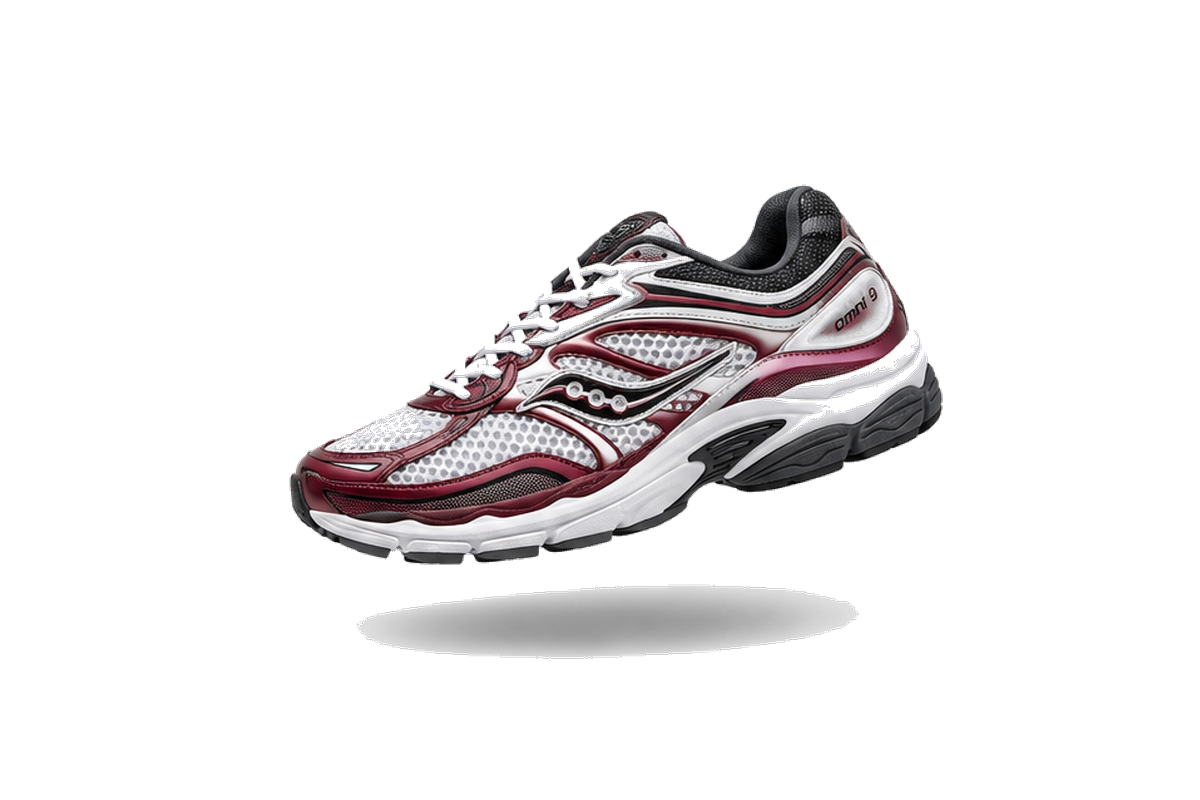
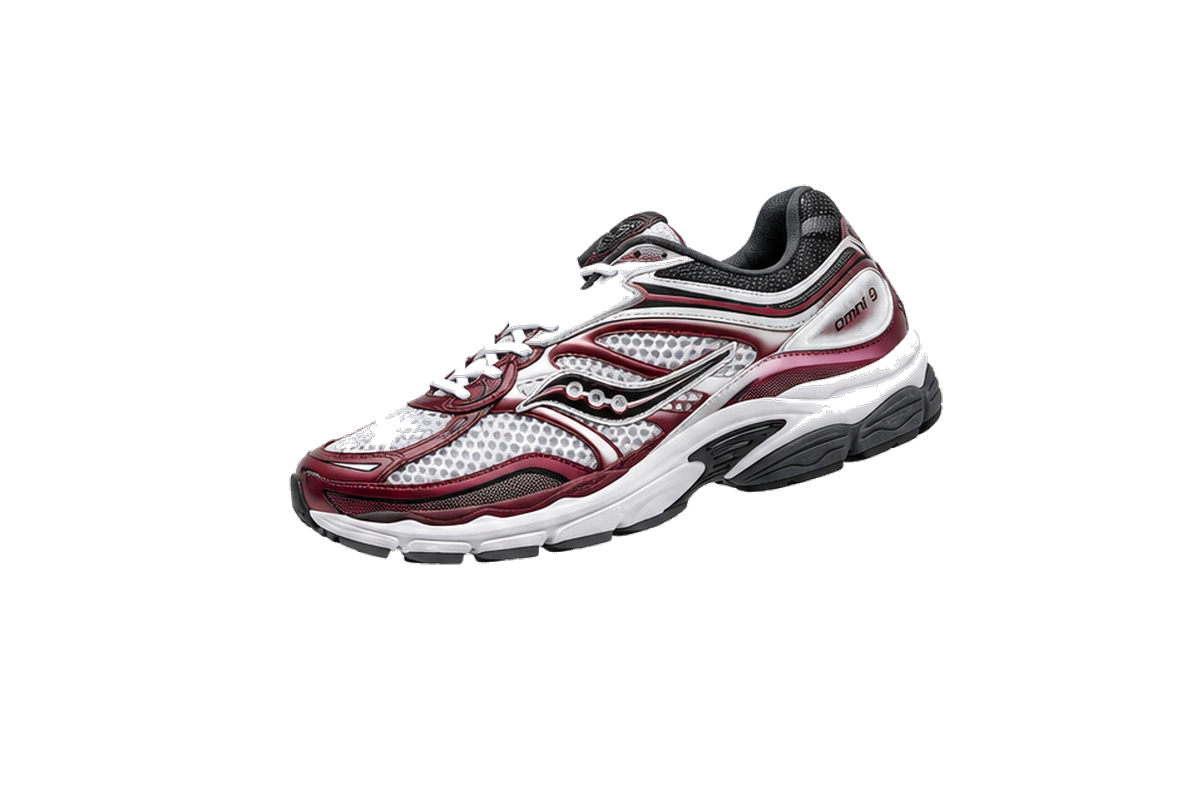
Ombre corrigée — les Saucony utilisent maintenant exactement le même système d'ombre que l'ASICS GEL-NYC rose.
**Ce qui a été fait**
- Les Saucony avaient une ombre figée dans leurs images (d'où le rendu « plaqué » et la double ombre) : je l'ai retirée des 5 PNG par analyse de transparence — **les chaussures elles-mêmes sont strictement intactes** (vérifié visuellement : mesh, lacets, logos préservés)
- `data/products.js` : `shadowTint` des 5 coloris Saucony passé à `rgba(10,10,10,0.26)` — la valeur de l'ASICS — activant l'**ombre ovale détachée animée** (réagit à la lévitation et à l'inclinaison, stable entre les coloris)

**Fichiers modifiés** : `assets/saucony-*.png` (retrait de l'ombre incorporée uniquement), `data/products.js`

**Vérifications** : noir ✓, blanc ✓ (un seul ovale doux, identique à la référence ASICS), changement de coloris stable ✓, mobile ✓ — taille, position, lévitation et logo Z en arrière-plan inchangés.

Emergent-Commit-Key: 9763d1eafc27c8bd7eeb8262312ab82ce4631e046eaf78239874ecf65ee72ad9

Changed region(s): [[0.2775, 0.7188, 0.7092, 0.8438], [0.4317, 0.3438, 0.5242, 0.4062], [0.3083, 0.5312, 0.3392, 0.5625]]

diff --git a/frontend/src/data/products.js b/frontend/src/data/products.js
@@ -216,9 +216,9 @@ export const CATALOG = [
     priceRange: { min: null, max: null }, // set when Shopify connects
     options: [{ name: "Color", values: ["Noir", "Blanc", "Gris / Argent", "Blanc / Bleu", "Blanc / Bordeaux"] }],
     // Grand logo ZEV SHOP (Z) en filigrane derrière la chaussure, comme les
-    // TN — sa couleur = zTint, adaptée à chaque coloris.
-    // Ombres déjà intégrées aux visuels → shadowTint transparent ; images
-    // normalisées sur le même canevas 1200×800 que la TN noire → scale 1.0.
+    // TN — sa couleur = zTint, adaptée à chaque coloris. Ombre ovale animée
+    // détachée (même système que l'ASICS) ; images normalisées sur le même
+    // canevas 1200×800 que la TN noire → scale 1.0.
     variants: [
       {
         id: "saucony-noir",
@@ -233,7 +233,7 @@ export const CATALOG = [
         swatchFlat: "#141414",
         glow: "rgba(0, 0, 0, 0)",
         spotlight: "rgba(0, 0, 0, 0.05)",
-        shadowTint: "rgba(0, 0, 0, 0)",
+        shadowTint: "rgba(10, 10, 10, 0.26)",
         zTint: "rgba(52, 56, 61, 0.16)",
         scale: 1.0,
         shiftY: "0%",
@@ -252,7 +252,7 @@ export const CATALOG = [
         swatchFlat: "#F4F4F4",
         glow: "rgba(0, 0, 0, 0)",
         spotlight: "rgba(0, 0, 0, 0.04)",
-        shadowTint: "rgba(0, 0, 0, 0)",
+        shadowTint: "rgba(10, 10, 10, 0.26)",
         zTint: "rgba(126, 132, 140, 0.22)",
         scale: 1.0,
         shiftY: "0%",
@@ -271,7 +271,7 @@ export const CATALOG = [
         swatchFlat: "linear-gradient(135deg, #ECECEC, #9AA0A6)",
         glow: "rgba(0, 0, 0, 0)",
         spotlight: "rgba(0, 0, 0, 0.05)",
-        shadowTint: "rgba(0, 0, 0, 0)",
+        shadowTint: "rgba(10, 10, 10, 0.26)",
         zTint: "rgba(128, 134, 142, 0.20)",
         scale: 1.0,
         shiftY: "0%",
@@ -290,7 +290,7 @@ export const CATALOG = [
         swatchFlat: "linear-gradient(135deg, #F4F4F4, #5FA8D3)",
         glow: "rgba(0, 0, 0, 0)",
         spotlight: "rgba(0, 0, 0, 0.05)",
-        shadowTint: "rgba(0, 0, 0, 0)",
+        shadowTint: "rgba(10, 10, 10, 0.26)",
         zTint: "rgba(95, 168, 211, 0.22)",
         scale: 1.0,
         shiftY: "0%",
@@ -309,7 +309,7 @@ export const CATALOG = [
         swatchFlat: "linear-gradient(135deg, #F4F4F4, #7A1E2B)",
         glow: "rgba(0, 0, 0, 0)",
         spotlight: "rgba(0, 0, 0, 0.05)",
-        shadowTint: "rgba(0, 0, 0, 0)",
+        shadowTint: "rgba(10, 10, 10, 0.26)",
         zTint: "rgba(122, 30, 43, 0.22)",
         scale: 1.0,
         shiftY: "0%",
